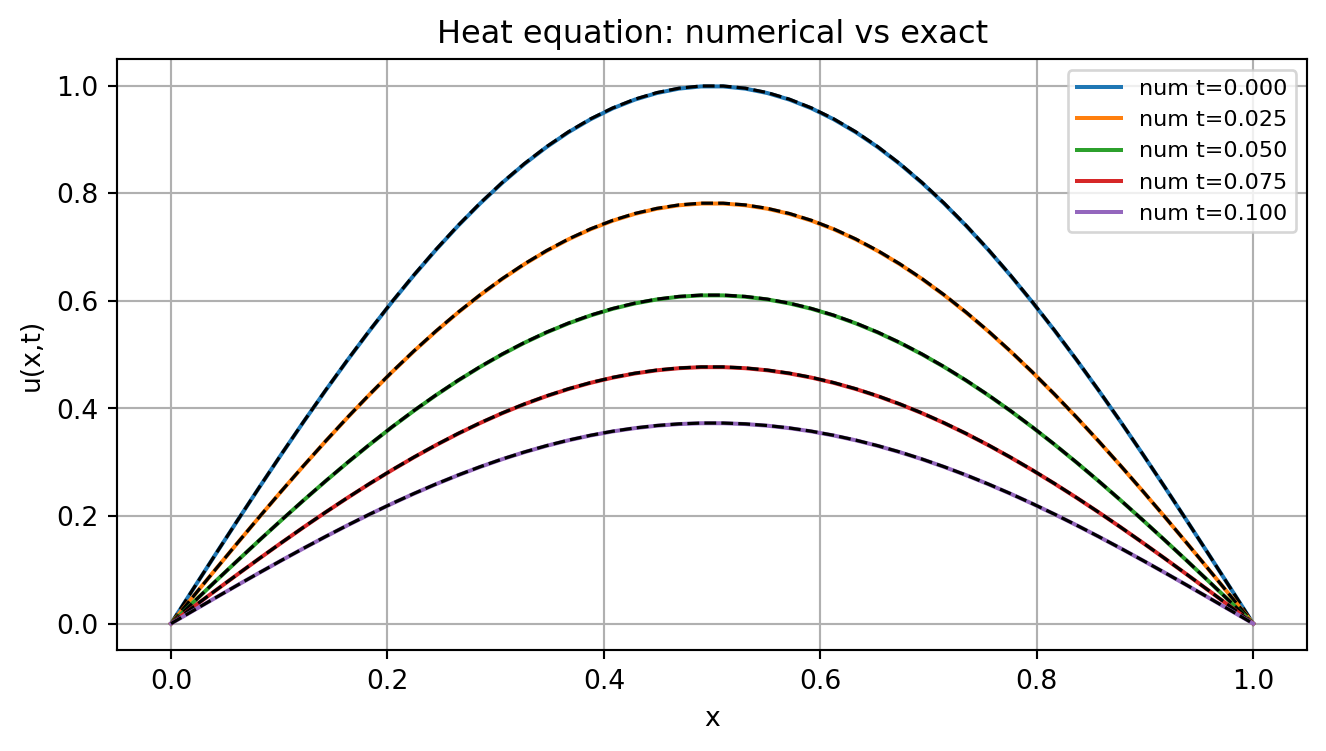
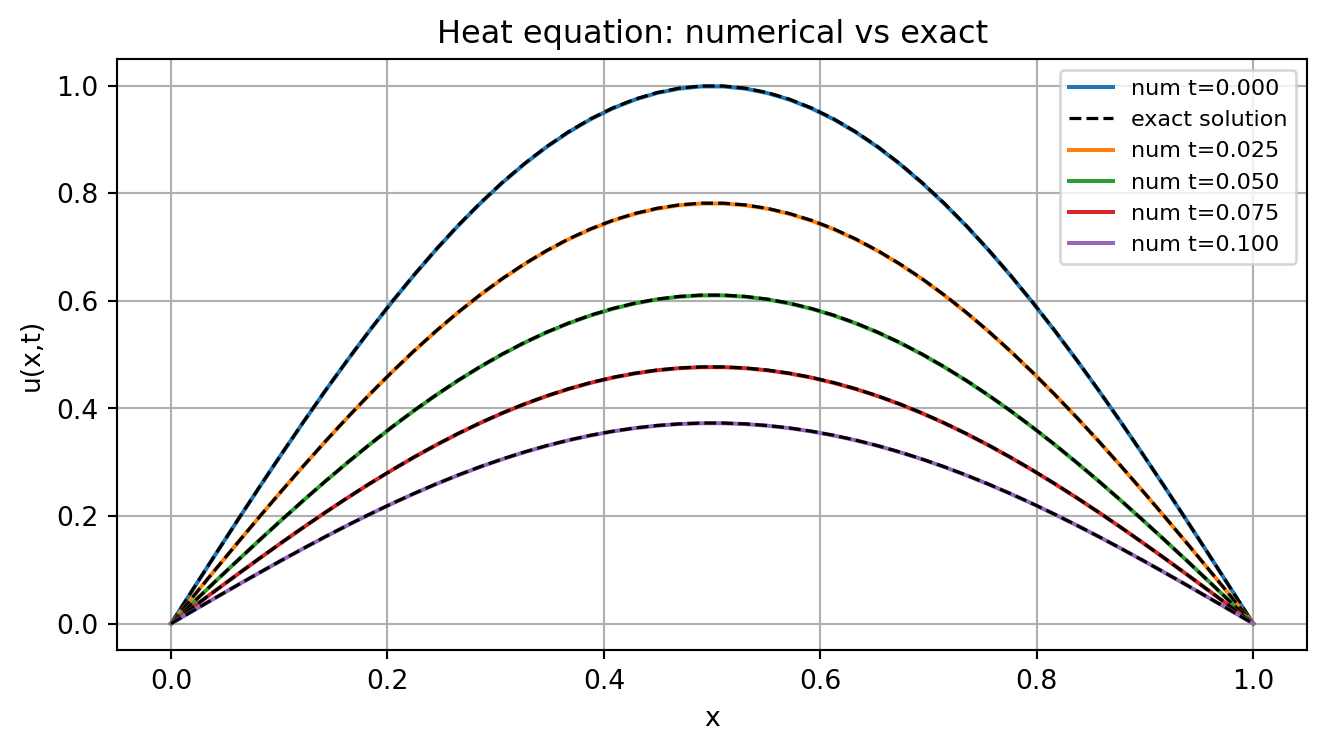
adding exact solution plots

Changed region(s): [[0.8039, 0.0919, 0.9894, 0.3675]]

diff --git a/docs/chapters/level4_finite_differences.html b/docs/chapters/level4_finite_differences.html
@@ -367,7 +367,7 @@ Suppose <span class="math inline">\(\alpha = 1\)</span>, <span class="math inlin
 <section id="heat-equation-ftcs-matrix-form" class="level2" data-number="5.4">
 <h2 data-number="5.4" class="anchored" data-anchor-id="heat-equation-ftcs-matrix-form"><span class="header-section-number">5.4</span> Heat equation — FTCS (matrix form)</h2>
 <p>This example shows the FTCS matrix method for the 1D heat equation and produces snapshot plots.</p>
-<div id="da808edf" class="cell" data-execution_count="1">
+<div id="8bd1be96" class="cell" data-execution_count="1">
 <div class="code-copy-outer-scaffold"><div class="sourceCode cell-code" id="cb1"><pre class="sourceCode python code-with-copy"><code class="sourceCode python"><span id="cb1-1"><a href="#cb1-1" aria-hidden="true" tabindex="-1"></a><span class="im">import</span> numpy <span class="im">as</span> np</span>
 <span id="cb1-2"><a href="#cb1-2" aria-hidden="true" tabindex="-1"></a><span class="im">import</span> matplotlib.pyplot <span class="im">as</span> plt</span>
 <span id="cb1-3"><a href="#cb1-3" aria-hidden="true" tabindex="-1"></a></span>
@@ -398,28 +398,32 @@ Suppose <span class="math inline">\(\alpha = 1\)</span>, <span class="math inlin
 <span id="cb1-28"><a href="#cb1-28" aria-hidden="true" tabindex="-1"></a>u <span class="op">=</span> u0.copy()</span>
 <span id="cb1-29"><a href="#cb1-29" aria-hidden="true" tabindex="-1"></a>u_in <span class="op">=</span> u[<span class="dv">1</span>:<span class="op">-</span><span class="dv">1</span>].copy()</span>
 <span id="cb1-30"><a href="#cb1-30" aria-hidden="true" tabindex="-1"></a>snapshots <span class="op">=</span> []</span>
-<span id="cb1-31"><a href="#cb1-31" aria-hidden="true" tabindex="-1"></a><span class="co"># pick ~5 evenly spaced times</span></span>
-<span id="cb1-32"><a href="#cb1-32" aria-hidden="true" tabindex="-1"></a>snap_times <span class="op">=</span> np.linspace(<span class="dv">0</span>, Nt<span class="op">-</span><span class="dv">1</span>, <span class="dv">5</span>, dtype<span class="op">=</span><span class="bu">int</span>)</span>
-<span id="cb1-33"><a href="#cb1-33" aria-hidden="true" tabindex="-1"></a></span>
-<span id="cb1-34"><a href="#cb1-34" aria-hidden="true" tabindex="-1"></a><span class="cf">for</span> j <span class="kw">in</span> <span class="bu">range</span>(Nt):</span>
-<span id="cb1-35"><a href="#cb1-35" aria-hidden="true" tabindex="-1"></a>    u_in <span class="op">=</span> A <span class="op">@</span> u_in <span class="op">+</span> b</span>
-<span id="cb1-36"><a href="#cb1-36" aria-hidden="true" tabindex="-1"></a>    u[<span class="dv">1</span>:<span class="op">-</span><span class="dv">1</span>] <span class="op">=</span> u_in</span>
-<span id="cb1-37"><a href="#cb1-37" aria-hidden="true" tabindex="-1"></a>    <span class="cf">if</span> j <span class="kw">in</span> snap_times <span class="kw">or</span> j <span class="op">==</span> Nt<span class="op">-</span><span class="dv">1</span>:</span>
-<span id="cb1-38"><a href="#cb1-38" aria-hidden="true" tabindex="-1"></a>        snapshots.append((j<span class="op">*</span>dt, u.copy()))</span>
-<span id="cb1-39"><a href="#cb1-39" aria-hidden="true" tabindex="-1"></a></span>
-<span id="cb1-40"><a href="#cb1-40" aria-hidden="true" tabindex="-1"></a>plt.figure(figsize<span class="op">=</span>(<span class="dv">8</span>,<span class="dv">4</span>))</span>
+<span id="cb1-31"><a href="#cb1-31" aria-hidden="true" tabindex="-1"></a>snap_times <span class="op">=</span> np.linspace(<span class="dv">0</span>, Nt<span class="op">-</span><span class="dv">1</span>, <span class="dv">5</span>, dtype<span class="op">=</span><span class="bu">int</span>)</span>
+<span id="cb1-32"><a href="#cb1-32" aria-hidden="true" tabindex="-1"></a></span>
+<span id="cb1-33"><a href="#cb1-33" aria-hidden="true" tabindex="-1"></a><span class="cf">for</span> j <span class="kw">in</span> <span class="bu">range</span>(Nt):</span>
+<span id="cb1-34"><a href="#cb1-34" aria-hidden="true" tabindex="-1"></a>    u_in <span class="op">=</span> A <span class="op">@</span> u_in <span class="op">+</span> b</span>
+<span id="cb1-35"><a href="#cb1-35" aria-hidden="true" tabindex="-1"></a>    u[<span class="dv">1</span>:<span class="op">-</span><span class="dv">1</span>] <span class="op">=</span> u_in</span>
+<span id="cb1-36"><a href="#cb1-36" aria-hidden="true" tabindex="-1"></a>    <span class="cf">if</span> j <span class="kw">in</span> snap_times <span class="kw">or</span> j <span class="op">==</span> Nt<span class="op">-</span><span class="dv">1</span>:</span>
+<span id="cb1-37"><a href="#cb1-37" aria-hidden="true" tabindex="-1"></a>        snapshots.append((j<span class="op">*</span>dt, u.copy()))</span>
+<span id="cb1-38"><a href="#cb1-38" aria-hidden="true" tabindex="-1"></a></span>
+<span id="cb1-39"><a href="#cb1-39" aria-hidden="true" tabindex="-1"></a>plt.figure(figsize<span class="op">=</span>(<span class="dv">8</span>,<span class="dv">4</span>))</span>
+<span id="cb1-40"><a href="#cb1-40" aria-hidden="true" tabindex="-1"></a>first_exact <span class="op">=</span> <span class="va">True</span></span>
 <span id="cb1-41"><a href="#cb1-41" aria-hidden="true" tabindex="-1"></a><span class="cf">for</span> t_here, u_snap <span class="kw">in</span> snapshots:</span>
 <span id="cb1-42"><a href="#cb1-42" aria-hidden="true" tabindex="-1"></a>    <span class="co"># numerical</span></span>
 <span id="cb1-43"><a href="#cb1-43" aria-hidden="true" tabindex="-1"></a>    plt.plot(x, u_snap, label<span class="op">=</span><span class="ss">f"num t=</span><span class="sc">{</span>t_here<span class="sc">:.3f}</span><span class="ss">"</span>)</span>
 <span id="cb1-44"><a href="#cb1-44" aria-hidden="true" tabindex="-1"></a>    <span class="co"># exact</span></span>
 <span id="cb1-45"><a href="#cb1-45" aria-hidden="true" tabindex="-1"></a>    u_exact <span class="op">=</span> np.exp(<span class="op">-</span>np.pi<span class="op">**</span><span class="dv">2</span><span class="op">*</span>alpha<span class="op">*</span>t_here) <span class="op">*</span> np.sin(np.pi<span class="op">*</span>x)</span>
-<span id="cb1-46"><a href="#cb1-46" aria-hidden="true" tabindex="-1"></a>    plt.plot(x, u_exact, <span class="st">'k--'</span>, linewidth<span class="op">=</span><span class="fl">1.2</span>)</span>
-<span id="cb1-47"><a href="#cb1-47" aria-hidden="true" tabindex="-1"></a></span>
-<span id="cb1-48"><a href="#cb1-48" aria-hidden="true" tabindex="-1"></a>plt.xlabel(<span class="st">'x'</span>)<span class="op">;</span> plt.ylabel(<span class="st">'u(x,t)'</span>)</span>
-<span id="cb1-49"><a href="#cb1-49" aria-hidden="true" tabindex="-1"></a>plt.title(<span class="st">'Heat equation: numerical vs exact'</span>)</span>
-<span id="cb1-50"><a href="#cb1-50" aria-hidden="true" tabindex="-1"></a>plt.legend(fontsize<span class="op">=</span><span class="st">'small'</span>)</span>
-<span id="cb1-51"><a href="#cb1-51" aria-hidden="true" tabindex="-1"></a>plt.grid(<span class="va">True</span>)</span>
-<span id="cb1-52"><a href="#cb1-52" aria-hidden="true" tabindex="-1"></a>plt.show()</span></code></pre></div><button title="Copy to Clipboard" class="code-copy-button"><i class="bi"></i></button></div>
+<span id="cb1-46"><a href="#cb1-46" aria-hidden="true" tabindex="-1"></a>    <span class="cf">if</span> first_exact:</span>
+<span id="cb1-47"><a href="#cb1-47" aria-hidden="true" tabindex="-1"></a>        plt.plot(x, u_exact, <span class="st">'k--'</span>, linewidth<span class="op">=</span><span class="fl">1.2</span>, label<span class="op">=</span><span class="st">'exact solution'</span>)</span>
+<span id="cb1-48"><a href="#cb1-48" aria-hidden="true" tabindex="-1"></a>        first_exact <span class="op">=</span> <span class="va">False</span></span>
+<span id="cb1-49"><a href="#cb1-49" aria-hidden="true" tabindex="-1"></a>    <span class="cf">else</span>:</span>
+<span id="cb1-50"><a href="#cb1-50" aria-hidden="true" tabindex="-1"></a>        plt.plot(x, u_exact, <span class="st">'k--'</span>, linewidth<span class="op">=</span><span class="fl">1.2</span>, label<span class="op">=</span><span class="st">"_nolegend_"</span>)</span>
+<span id="cb1-51"><a href="#cb1-51" aria-hidden="true" tabindex="-1"></a></span>
+<span id="cb1-52"><a href="#cb1-52" aria-hidden="true" tabindex="-1"></a>plt.xlabel(<span class="st">'x'</span>)<span class="op">;</span> plt.ylabel(<span class="st">'u(x,t)'</span>)</span>
+<span id="cb1-53"><a href="#cb1-53" aria-hidden="true" tabindex="-1"></a>plt.title(<span class="st">'Heat equation: numerical vs exact'</span>)</span>
+<span id="cb1-54"><a href="#cb1-54" aria-hidden="true" tabindex="-1"></a>plt.legend(fontsize<span class="op">=</span><span class="st">'small'</span>)</span>
+<span id="cb1-55"><a href="#cb1-55" aria-hidden="true" tabindex="-1"></a>plt.grid(<span class="va">True</span>)</span>
+<span id="cb1-56"><a href="#cb1-56" aria-hidden="true" tabindex="-1"></a>plt.show()</span></code></pre></div><button title="Copy to Clipboard" class="code-copy-button"><i class="bi"></i></button></div>
 <div class="cell-output cell-output-display">
 <div>
 <figure class="figure">
